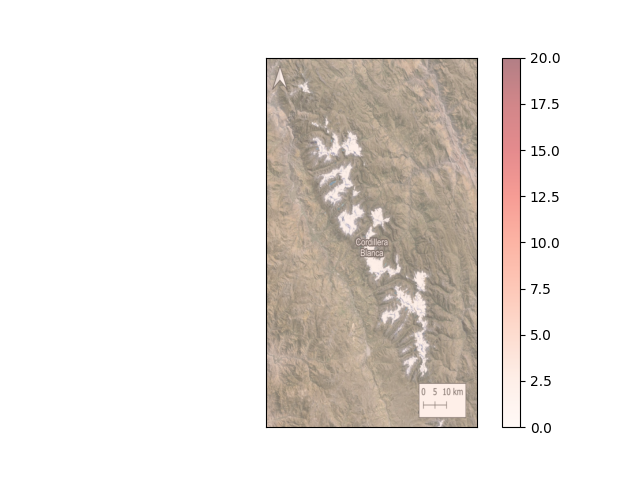
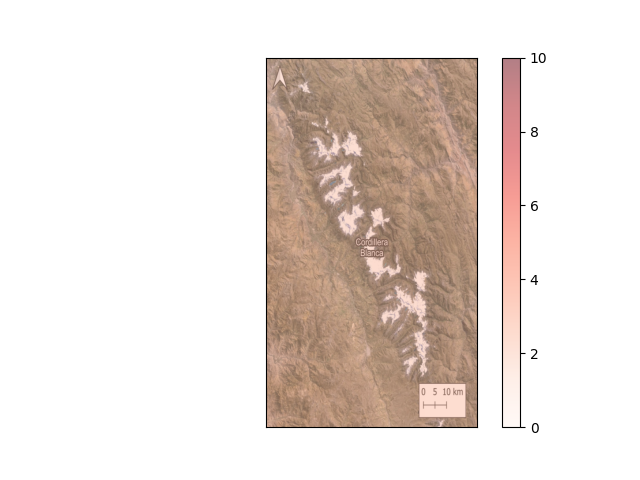
asd

diff --git a/Outputs/AI/build_dataset.py b/Outputs/AI/build_dataset.py
@@ -244,11 +244,12 @@ def show_input_images(data):
     for i, sample in enumerate(samples):
         matrix = sample[:, :, 1]
         plt.clf()
+        print(f'min: {np.min(matrix)}, max: {np.max(matrix)}')
         heatmap_data = matrix.repeat(120, axis=0).repeat(120, axis=1)
         fig, ax = plt.subplots()
         ax.set_xticks([])
         ax.set_yticks([])
         ax.imshow(imagen_array)
-        heatmap = ax.imshow(heatmap_data, cmap='Reds', alpha=0.5, vmin=0, vmax=20)
+        heatmap = ax.imshow(heatmap_data, cmap='Reds', alpha=0.5, vmin=0, vmax=10)
         cbar = fig.colorbar(heatmap)
         plt.savefig(f'./images/heatmap_{i}.png')
